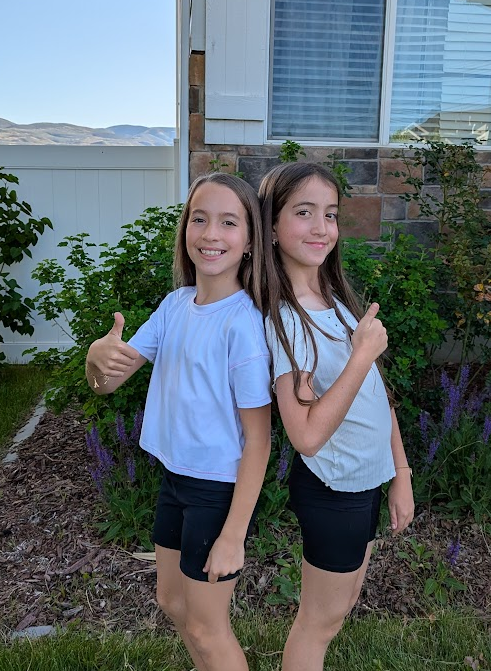
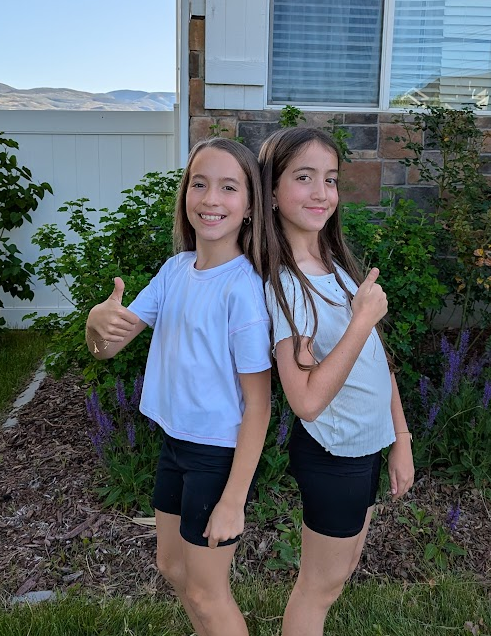
trimed top of image

diff --git a/about.html b/about.html
@@ -55,7 +55,7 @@
               <img
                 src="pictures/about-natalie-alexa-tight.png"
                 width="491"
-                height="671"
+                height="636"
                 alt="Natalie Christensen and Alexa White smiling outside"
                 loading="lazy"
                 decoding="async"
